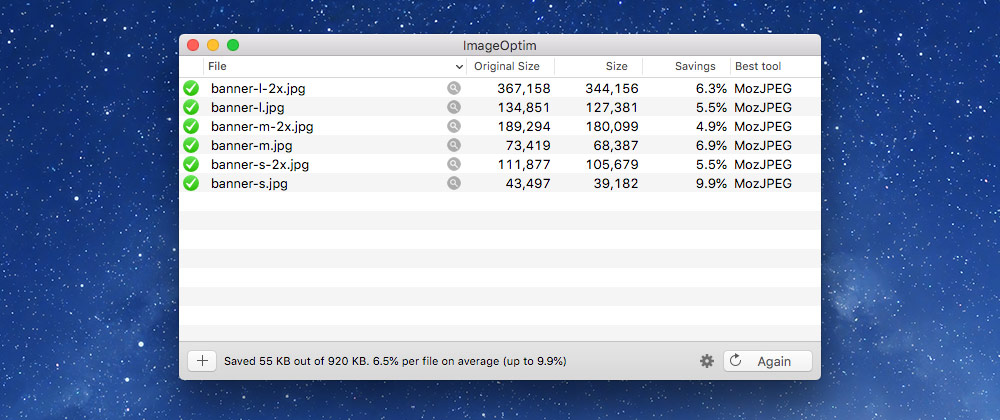
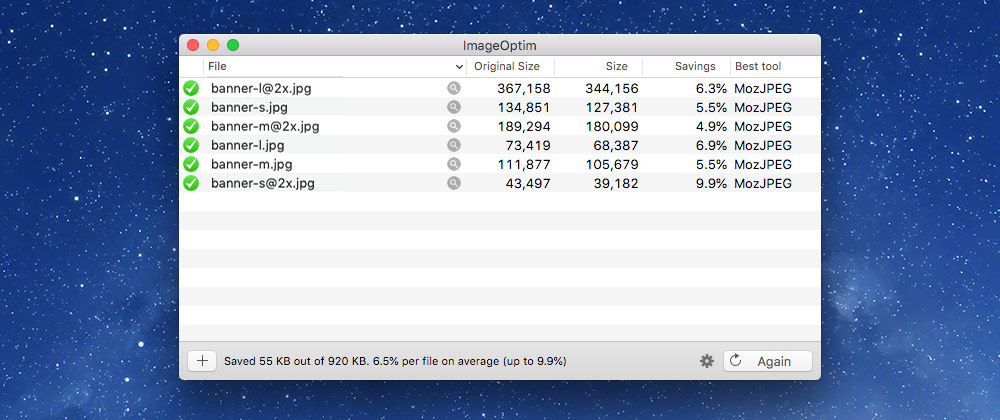
Switch to @2x for retina images

Changed region(s): [[0.186, 0.1857, 0.341, 0.4643]]

diff --git a/different-crops-same-image.md b/different-crops-same-image.md
@@ -82,18 +82,18 @@ steps:
       **Large sizes: Open `banner-l.psd`**
 
       1. Use “Save for web” to save it as a JPG—around 55% quality looks okay.
-      2. Name it `banner-l-2x.jpg` in your `images` folder.
+      2. Name it `banner-l@2x.jpg` in your `images` folder.
       3. Now, “Save for web” again, and resize it down to `1200` pixels wide (in the bottom right corner of the dialog).
       4. Save it as `banner-l.jpg`, around 55% is okay.
 
       **Medium sizes: Open `banner-m.psd`**
 
-      1. Same thing: save as JPG at its original size: `banner-m-2x.jpg`
+      1. Same thing: save as JPG at its original size: `banner-m@2x.jpg`
       2. Resize to half size, `600px`, and save another JPG: `banner-m.jpg`
 
       **Small sizes: Open `banner-s.psd`**
 
-      1. Same thing: save as JPG at its original size: `banner-s-2x.jpg`
+      1. Same thing: save as JPG at its original size: `banner-s@2x.jpg`
       2. Resize to half size, `320px`, and save another JPG: `banner-s.jpg`
     folders:
       - label: "different-crops-same-image"
@@ -119,15 +119,15 @@ steps:
       - label: "images"
         type: folder
         indent: 2
-      - label: "banner-l-2x.jpg"
+      - label: "banner-l@2x.jpg"
         indent: 3
       - label: "banner-l.jpg"
         indent: 3
-      - label: "banner-m-2x.jpg"
+      - label: "banner-m@2x.jpg"
         indent: 3
       - label: "banner-m.jpg"
         indent: 3
-      - label: "banner-s-2x.jpg"
+      - label: "banner-s@2x.jpg"
         indent: 3
       - label: "banner-s.jpg"
         indent: 3
@@ -222,9 +222,9 @@ steps:
       ⋮
       <div class="banner relative">
         <picture class="img-flex">
-          <source media="(min-width:60em)" srcset="images/banner-l-2x.jpg 2x, images/banner-l.jpg 1x">
-          <source media="(min-width:38em)" srcset="images/banner-m-2x.jpg 2x, images/banner-m.jpg 1x">
-          <img srcset="images/banner-s-2x.jpg 2x, images/banner-s.jpg 1x" src="images/banner-s.jpg" alt="">
+          <source media="(min-width:60em)" srcset="images/banner-l@2x.jpg 2x, images/banner-l.jpg 1x">
+          <source media="(min-width:38em)" srcset="images/banner-m@2x.jpg 2x, images/banner-m.jpg 1x">
+          <img srcset="images/banner-s@2x.jpg 2x, images/banner-s.jpg 1x" src="images/banner-s.jpg" alt="">
         </picture>
         <div class="absolute pin-lb island-1-2 max-length">
           <h1 class="push-1-8">Maize: cornerstone of culture &amp; spirituality</h1>
@@ -238,7 +238,7 @@ steps:
         fade: true
       - num: 4
         text: |
-          I added `images/banner-l-2x.jpg 2x` to the start of the `srcset`
+          I added `images/banner-l@2x.jpg 2x` to the start of the `srcset`
 
           Also notice the addition of the `1x` at the very end of the `srcset`
 

diff --git a/many-images-you-choose.md b/many-images-you-choose.md
@@ -152,9 +152,9 @@ slides:
       If you want to really complicate things you can specify different sizes & resolutions for the `<picture>` tag.
     html: |
       <picture class="img-flex">
-        <source media="(min-width: 60em)" srcset="dino-l-2x.png 2x, dino-l.png 1x">
-        <source media="(min-width: 38em)" srcset="dino-m-2x.png 2x, dino-m.png 1x">
-        <img srcset="dino-s-2x.png 2x, dino-s.png 1x" src="dino-s.png" alt="A ginormous dinosaur">
+        <source media="(min-width: 60em)" srcset="dino-l@2x.png 2x, dino-l.png 1x">
+        <source media="(min-width: 38em)" srcset="dino-m@2x.png 2x, dino-m.png 1x">
+        <img srcset="dino-s@2x.png 2x, dino-s.png 1x" src="dino-s.png" alt="A ginormous dinosaur">
       </picture>
 
   - content: |
